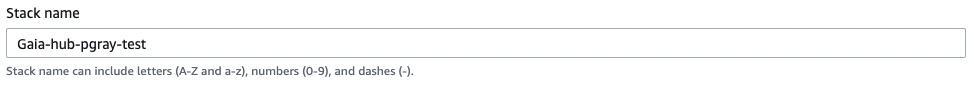
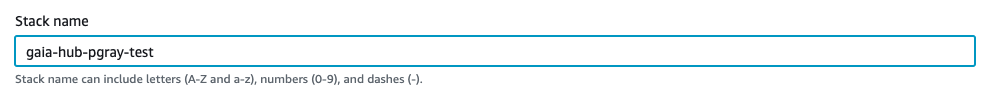
fix: add info on casing when deploying Gaia hub

Changed region(s): [[0.0, 0.3294, 1.0, 0.6824], [0.0, 0.7294, 0.4312, 0.8941], [0.0, 0.0941, 0.0924, 0.2588]]

diff --git a/src/pages/storage-hubs/amazon-ec2-deploy.md b/src/pages/storage-hubs/amazon-ec2-deploy.md
@@ -41,7 +41,7 @@ it runs on.
 3. Click **Next**.
 4. Specify configuration details for your Gaia hub:
 
-   i. Enter the **Stack name**. This name must be unique within your AWS account.
+   i. Enter the **Stack name**. This name must be lowercase and unique within your AWS account.
 
    ![CloudFormation stack name](/images/cloudformation-stack-name.png)
 
